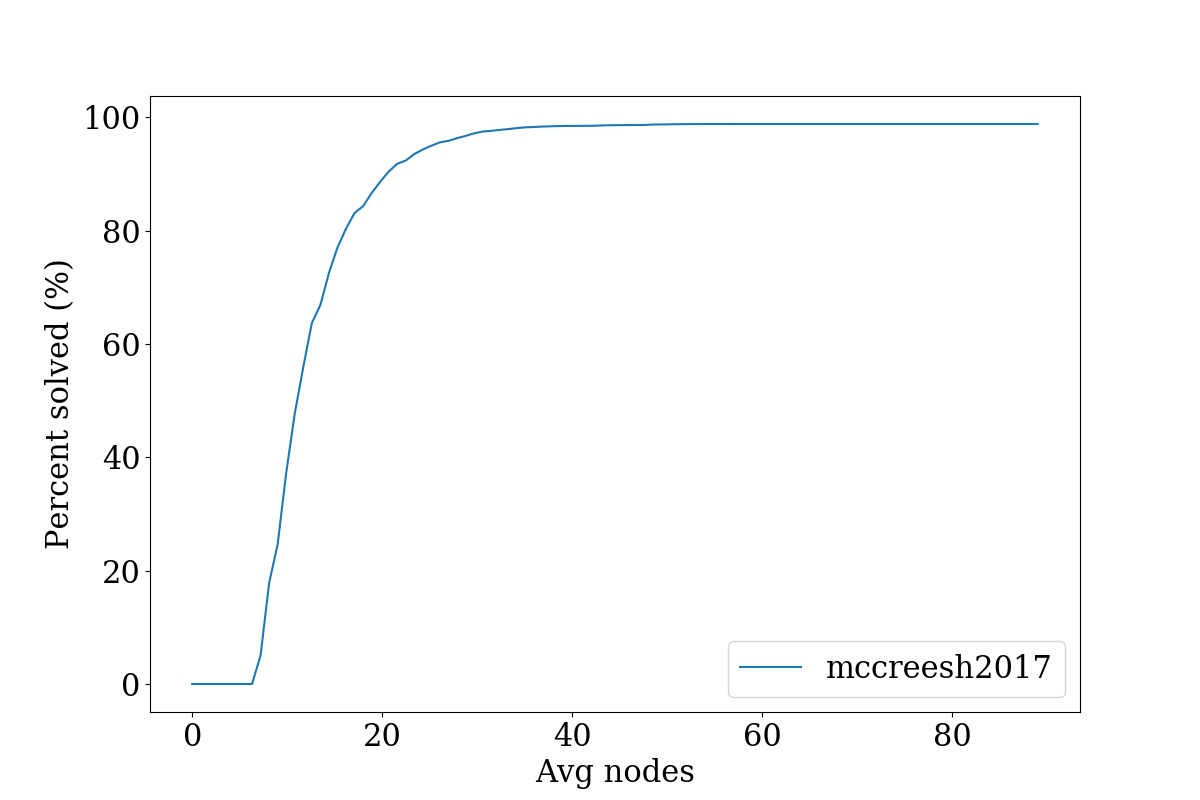
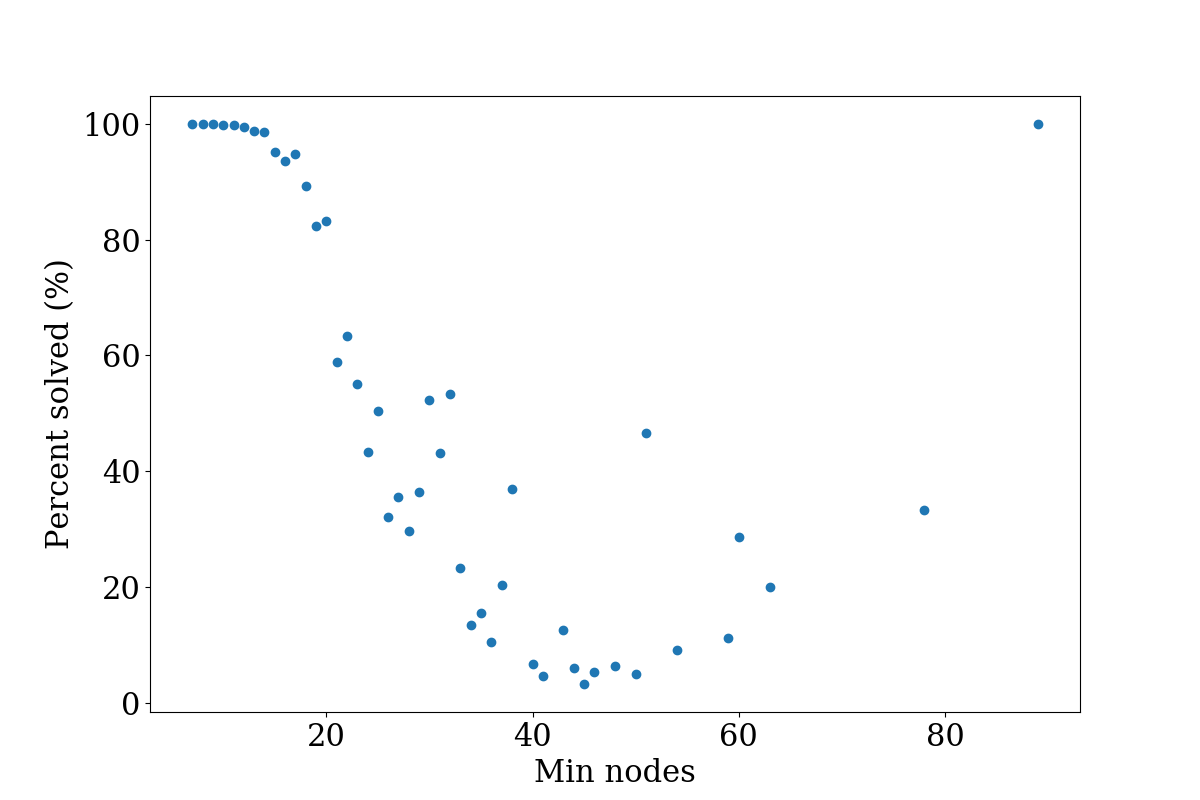
Percent solution analysis

diff --git a/sections/experiments.tex b/sections/experiments.tex
@@ -4,28 +4,25 @@ In all cases, interface code was written so that the original author's code coul
 
 \TODO{insert sample image of highlighted MCS mappings}
 
-The second method follows the rationale that if multiple "optimal" search algorithms agree, then they are likely to be correct \cite{korf2014you}. We verify these results by using a second algorithm \cite{mccreesh2016clique} to solve the same MCS problem and compare the solution sizes. It should be noted that these algorithms output a single optimal mapping. As a result, while the mappings may differ between algorithms, the MCS size must be consistent to be correct. We use the author's original implementation and verify that for all three datasets (AIDS, LINUX, and IMDB), that the two solutions sizes are consistent.
+The second method follows the rationale that if multiple "optimal" search algorithms agree, then the algorithms are likely to be correct \cite{korf2014you}. We verify these results by using a second algorithm \cite{mccreesh2016clique} to solve the same MCS problem and compare the solution sizes. It should be noted that these algorithms output a single optimal mapping. As a result, while the mappings may differ between algorithms, we verify correctness using the MCS size. We use the author's original implementation and verified that for all three datasets (AIDS, LINUX, and IMDB), that the two solutions sizes are consistent.
 
 \subsection{Baseline output stats}
-Since we would like to train a network to predict the MCS of two graphs, we need to quantify the limits of the current state of the art algorithms. Following existing methods to quantify solution speed \cite{hoffmann2018observations}, we look at the total number of graphs that can be optimally solved in a given time limit, as a function of average graph size.
-
-For small graphs (the AIDS and LINUX datasets), the MCSPLIT algorithm solves all instances in less than 1 second. Therefore, we analyze the IMDB dataset, setting a time limit of 1 minute for every solution. Figure \ref{fig:solution_limits} shows the percent of graph pairs solved as the average node count increases. 
+Since we would like to train a network to predict the MCS of two graphs, we need to quantify the limits of the current state of the art algorithms. Following existing methods to quantify solution speed \cite{hoffmann2018observations}, we look at the percentage of MCS graph pairs that can be optimally solved in a given time limit, as a function of pairwise graph size, as shown in Figure \ref{fig:solution_limits}. The pairwise graph size metric used is the minimum number of nodes in either graph of the graph pair. For small graphs (the AIDS and LINUX datasets), the McSpilt algorithm solves all instances in less than 1 second. Therefore, we analyze the IMDB dataset, setting a time limit of 1 minute for every solution.
 
 \begin{figure}
-    \centering
-    \includegraphics[width=\textwidth]{figures/pct_solved_avg_nodes.png}
-    \caption{}
+    \center
+    \includegraphics[width=0.8\textwidth]{figures/pct_solved_avg_nodes.png}
+    \caption{Percent of MCS pairs from the IMDB dataset solved for a given pairwise graph size with a 1 minute time limit. Pairwise graph size metric is the minimum number of nodes contained in either graph.}
     \label{fig:solution_limits}
 \end{figure}
 
-\TODO{fix the graph}
+As expected, there is a general downwards trend of percent of pairs solved for increasing graph size. Although there exists significant noise in the solved percentage, it appears that the exact algorithm fails to solve 50\% of the cases for graph pair size of approximately 20 nodes and more than 90\% of the cases for sizes greater than 40 nodes.
 
-\TODO{average mcs statistics (what is avg size of graphs and mcs size)}
+The noisiness in the data exists due to the dataset analyzed. Some input graphs are easy for the exact solver, and since the dataset has a limited number of large graphs, easy solutions skew the data towards 100\%. This is particularly noticeable for graph size = 89, in which all pairs were solved for that graph size. IMDB contains only 1 graph of size 89 which happens to have this quality, so all solution pairs involving that graph are solved.
 
 \subsection{Trained AAAI model and results}
+Following the results in \cite{bai2018convolutional}, we train a model on the task of similarity search, where the similarity metric is the nMCS. We use mean squared error (mse), Kendall's Rank Correlation Coefficient $\tau$ \cite{kendall1938new}, Spearman's Rank Correlation Coefficient $\rho$ \cite{spearman1904proof}, and Precision at k (p@k) to evaluate the model. It should be noted that rather than develop a new model to specifically learn the MCS problem, this work is focused on showing that MCS is a reasonable metric for similarity search and is learnable with an existing state-of-the-art model.
 
-
-Following the results in \cite{bai2018convolutional}, we evaluate the model on the task of similarity search, where the similarity metric is the nMCS. We use mean squared error (mse), Kendall's Rank Correlation Coefficient $\tau$ \cite{kendall1938new}, Spearman's Rank Correlation Coefficient $\rho$ \cite{spearman1904proof}, and Precision at k (p@k) to evaluate the model. Rather than develop a new model to specifically learn the MCS problem, this work is focused on showing that MCS is a reasonable metric for similarity search and is learnable with an existing model.
 
 
 - include the standard plot results

diff --git a/sections/baselines.tex b/sections/baselines.tex
@@ -14,4 +14,4 @@ AIDS is a chemical compound dataset containing 42,687 compounds with hydrogen at
 
 LINUX \cite{wang2012efficient} is a dataset of 48,747 program dependence graphs from the Linux kernel. The dataset used is a random selection of 1000 graphs with 10 or fewer nodes. This is an unlabeled dataset with statements represented as nodes and dependencies represented as edges.
 
-IMDB \cite{yanardag2015deep} is a dataset of ego-networks of movie actors/actresses. It consists of 1500 graphs of varying sizes, the largest of which contains 88 nodes. This is an unlabeled dataset with people represented as nodes and "in the same movie" relationships represented as edges.
+IMDB \cite{yanardag2015deep} is a dataset of ego-networks of movie actors/actresses. It consists of 1500 graphs of varying sizes, the largest of which contains 89 nodes. This is an unlabeled dataset with people represented as nodes and "in the same movie" relationships represented as edges.
